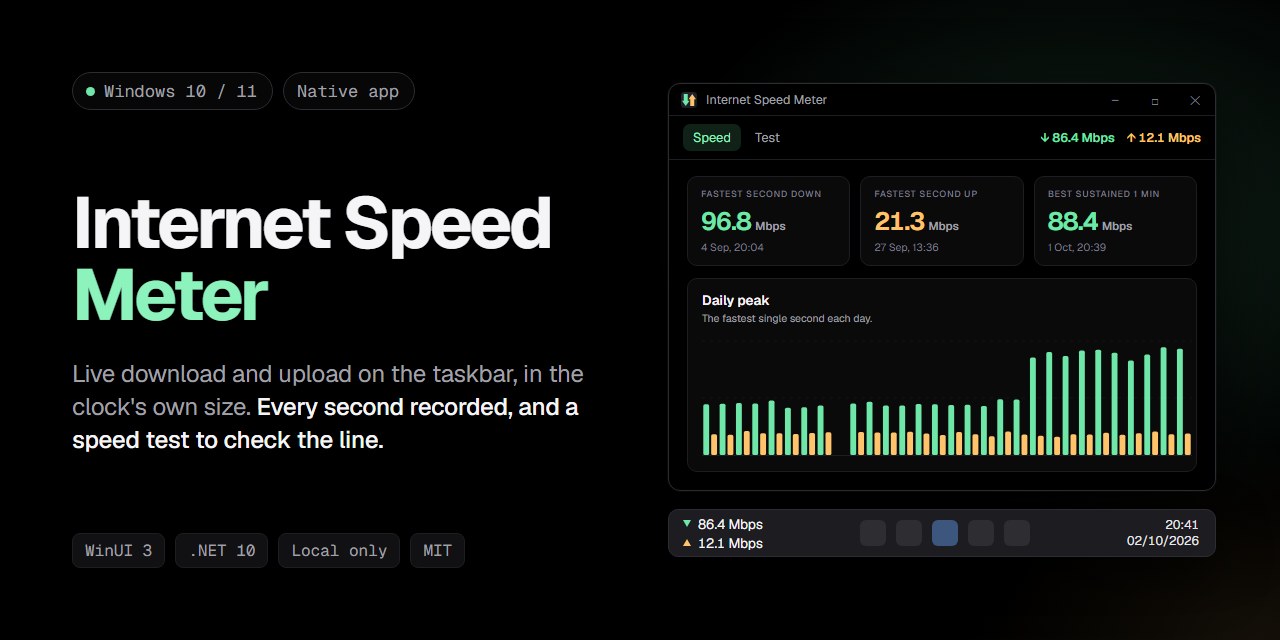
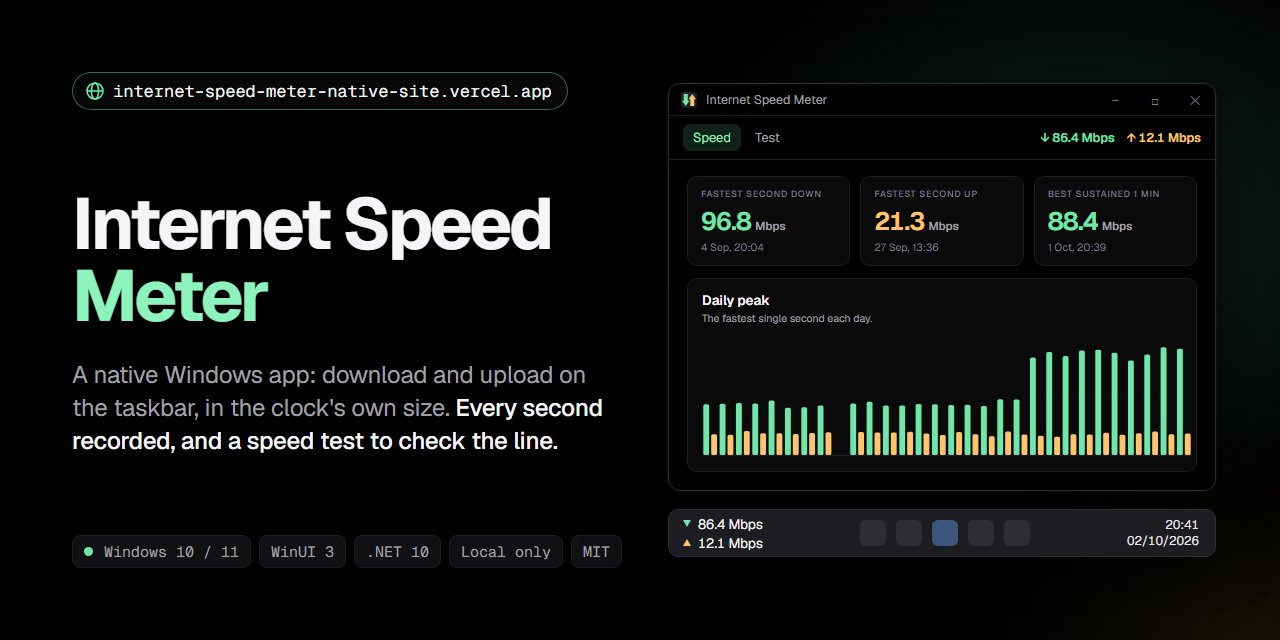
docs: the project site in the README badges, the social preview and link previews
The social card's top row is now the site's address in a pill with a globe,
as AI Usage Native's card has; "Windows 10 / 11" moved to the bottom chips and
"native" into the tagline. The README gains a project-site badge. The site
carries Open Graph and Twitter card tags, with the social card copied in by
build.mjs as its preview image, so a shared link unfurls with a picture.

diff --git a/docs/social-preview.html b/docs/social-preview.html
@@ -67,6 +67,10 @@
     background: rgba(10, 10, 11, 0.7);
   }
   .dot { width: 9px; height: 9px; border-radius: 50%; background: var(--down); }
+  .chip .dot { display: inline-block; vertical-align: 1px; margin-right: 2px; }
+  /* The project site's address, so the card says where to see more. */
+  .site { color: var(--text); border-color: rgba(110, 231, 168, 0.45); }
+  .site svg { width: 18px; height: 18px; fill: none; stroke: var(--down); stroke-width: 1.6; }
 
   h1 { font-size: 72px; line-height: 1; white-space: nowrap; font-weight: 700; letter-spacing: -0.045em; }
   h1 .accent { color: var(--down-bright); }
@@ -77,10 +81,10 @@
   }
   .tagline strong { color: var(--text); font-weight: 500; }
 
-  .chips { display: flex; flex-wrap: wrap; gap: 10px; }
+  .chips { display: flex; flex-wrap: wrap; gap: 8px; }
   .chip {
-    font-family: 'Geist Mono', monospace; font-size: 16px; color: var(--text-dim);
-    padding: 6px 12px; border-radius: 8px; background: #111114; border: 1px solid var(--border);
+    font-family: 'Geist Mono', monospace; font-size: 15px; color: var(--text-dim);
+    padding: 6px 11px; border-radius: 8px; background: #111114; border: 1px solid var(--border);
   }
 
   /* ---- right: an illustrative window above an illustrative taskbar ---- */
@@ -144,17 +148,17 @@
 <div class="frame">
   <section class="copy">
     <div class="pills">
-      <span class="pill"><span class="dot"></span>Windows 10 / 11</span>
-      <span class="pill">Native app</span>
+      <span class="pill site"><svg viewBox="0 0 18 18"><circle cx="9" cy="9" r="8"/><path d="M1 9h16"/><ellipse cx="9" cy="9" rx="3.6" ry="8"/></svg>internet-speed-meter-native-site.vercel.app</span>
     </div>
     <div>
       <h1>Internet Speed<br><span class="accent">Meter</span></h1>
       <p class="tagline">
-        Live download and upload on the taskbar, in the clock's own size.
+        A native Windows app: download and upload on the taskbar, in the clock's own size.
         <strong>Every second recorded, and a speed test to check the line.</strong>
       </p>
     </div>
     <div class="chips">
+      <span class="chip"><span class="dot"></span> Windows 10 / 11</span>
       <span class="chip">WinUI 3</span>
       <span class="chip">.NET 10</span>
       <span class="chip">Local only</span>

diff --git a/site/index.html b/site/index.html
@@ -8,6 +8,19 @@
 <title>Internet Speed Meter</title>
 <meta name="description" content="A native Windows app that shows live download and upload speed on the taskbar, keeps a permanent second-by-second history of the connection, and runs a speed test beside what the meter itself saw. Nothing leaves the PC.">
 <meta name="theme-color" content="#000000">
+<!-- Link previews: the repository's own social card, copied in by build.mjs. Absolute
+     URLs, because chat apps and social sites do not resolve relative ones. -->
+<link rel="canonical" href="https://internet-speed-meter-native-site.vercel.app/">
+<meta property="og:type" content="website">
+<meta property="og:site_name" content="Internet Speed Meter">
+<meta property="og:title" content="Internet Speed Meter">
+<meta property="og:description" content="Live download and upload on the Windows taskbar, a permanent second-by-second history, and a speed test beside what the meter saw. A native app; nothing leaves the PC.">
+<meta property="og:url" content="https://internet-speed-meter-native-site.vercel.app/">
+<meta property="og:image" content="https://internet-speed-meter-native-site.vercel.app/social-preview.png">
+<meta property="og:image:width" content="1280">
+<meta property="og:image:height" content="640">
+<meta property="og:image:alt" content="Internet Speed Meter: a dashboard window above a taskbar showing download and upload speed beside the clock">
+<meta name="twitter:card" content="summary_large_image">
 <link rel="icon" href="favicon.svg" type="image/svg+xml">
 <link rel="preconnect" href="https://fonts.googleapis.com">
 <link rel="preconnect" href="https://fonts.gstatic.com" crossorigin>

diff --git a/site/README.md b/site/README.md
@@ -19,8 +19,10 @@ the app's screenshots use.
 
 The app screenshots come from `docs/screenshots/`, which `tools\Snapshot.ps1`
 regenerates; the page shows the Speed and Test captures matching its own
-theme. The build copies them in, and the app icon as the favicon, rather than
-keeping second copies here.
+theme. The build copies them in, the app icon as the favicon, and
+`docs/social-preview.png` (the repository's social card) as the link
+preview image, rather than keeping second copies here. The preview tags use
+absolute URLs to the deployed address, since link unfurlers need them.
 
 **Phones get the desktop layout, zoomed to fit**: the viewport tag is
 `width=1024` with no initial scale, so a phone lays the page out 1024px wide
@@ -44,11 +46,11 @@ python -m http.server 7954 --bind 127.0.0.1 --directory site/dist
 Import the public repository and set **Root Directory** to `site`. Everything else
 comes from `site/vercel.json`: no framework, no install step, the build
 command and output folder, and the security headers. Vercel's build can read
-files outside the root directory, which is how the screenshots and the icon
-get in.
+files outside the root directory, which is how the screenshots, the icon
+and the social card get in.
 
 **A push builds only when the site could have changed**: something under
-`site/`, `docs/screenshots/` or the app icon differs from the last successful
+`site/`, `docs/screenshots/`, the app icon or the social card differs from the last successful
 deployment (`ignoreCommand`; exit 0 skips, anything else builds). With no
 previous deployment, or one whose commit is not in Vercel's clone, the command
 fails and the build runs, so it errs towards building. Any other file the site

diff --git a/README.md b/README.md
@@ -3,6 +3,7 @@
 [![CI](https://github.com/naimulnashid/internet-speed-meter-native/actions/workflows/ci.yml/badge.svg)](https://github.com/naimulnashid/internet-speed-meter-native/actions/workflows/ci.yml)
 [![Latest release](https://img.shields.io/github/v/release/naimulnashid/internet-speed-meter-native)](https://github.com/naimulnashid/internet-speed-meter-native/releases/latest)
 [![MIT license](https://img.shields.io/github/license/naimulnashid/internet-speed-meter-native)](LICENSE)
+[![Project site](https://img.shields.io/website?url=https%3A%2F%2Finternet-speed-meter-native-site.vercel.app&label=project%20site&up_message=online&down_message=offline)](https://internet-speed-meter-native-site.vercel.app/)
 
 Live download and upload speed on the Windows taskbar, in the clock's own
 size, with a permanent history of what the connection has done and a speed
